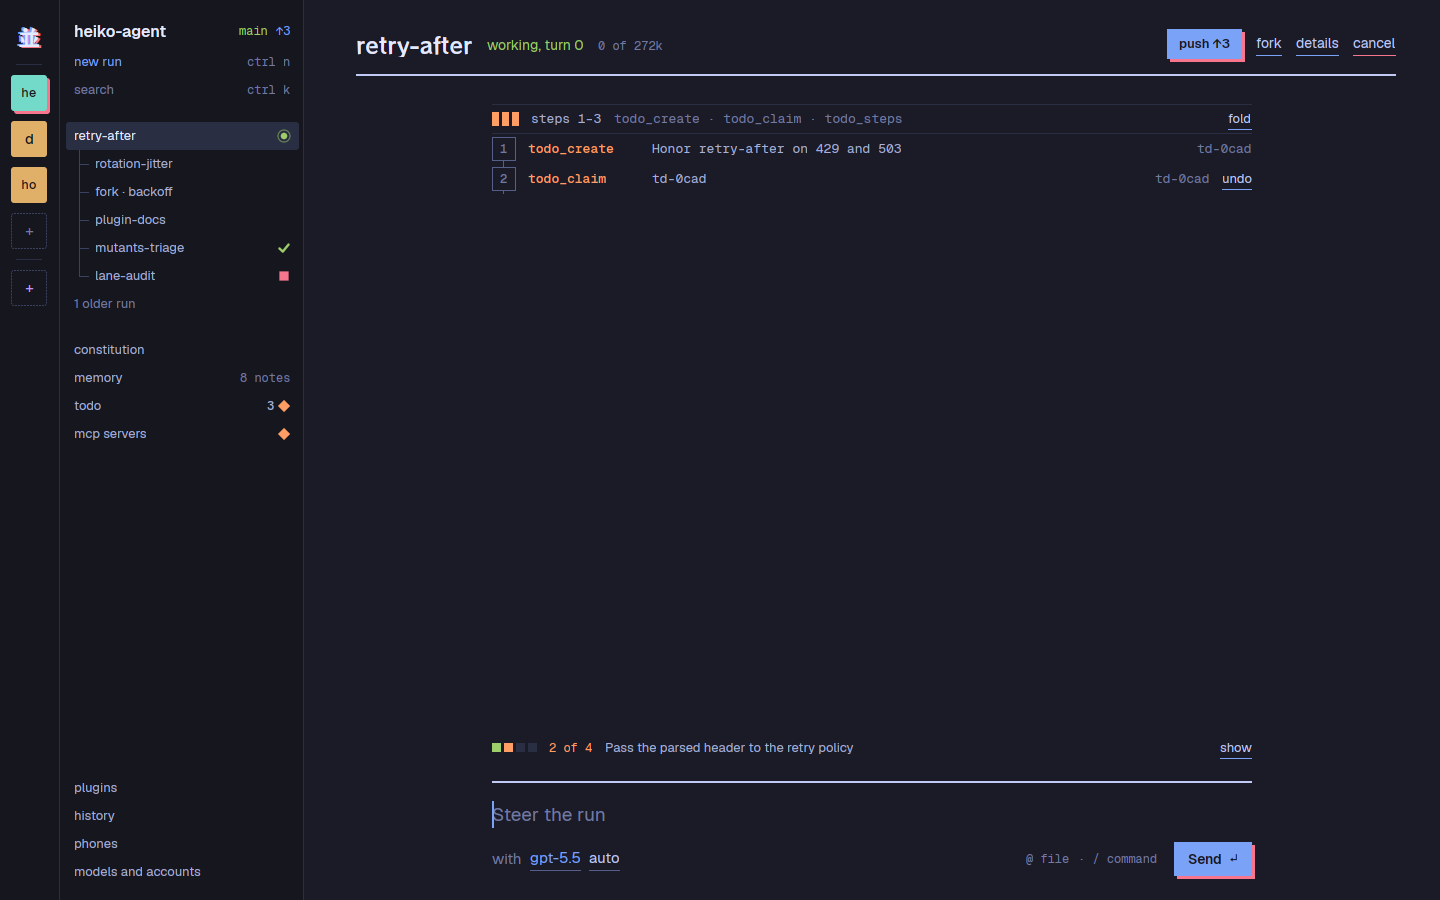
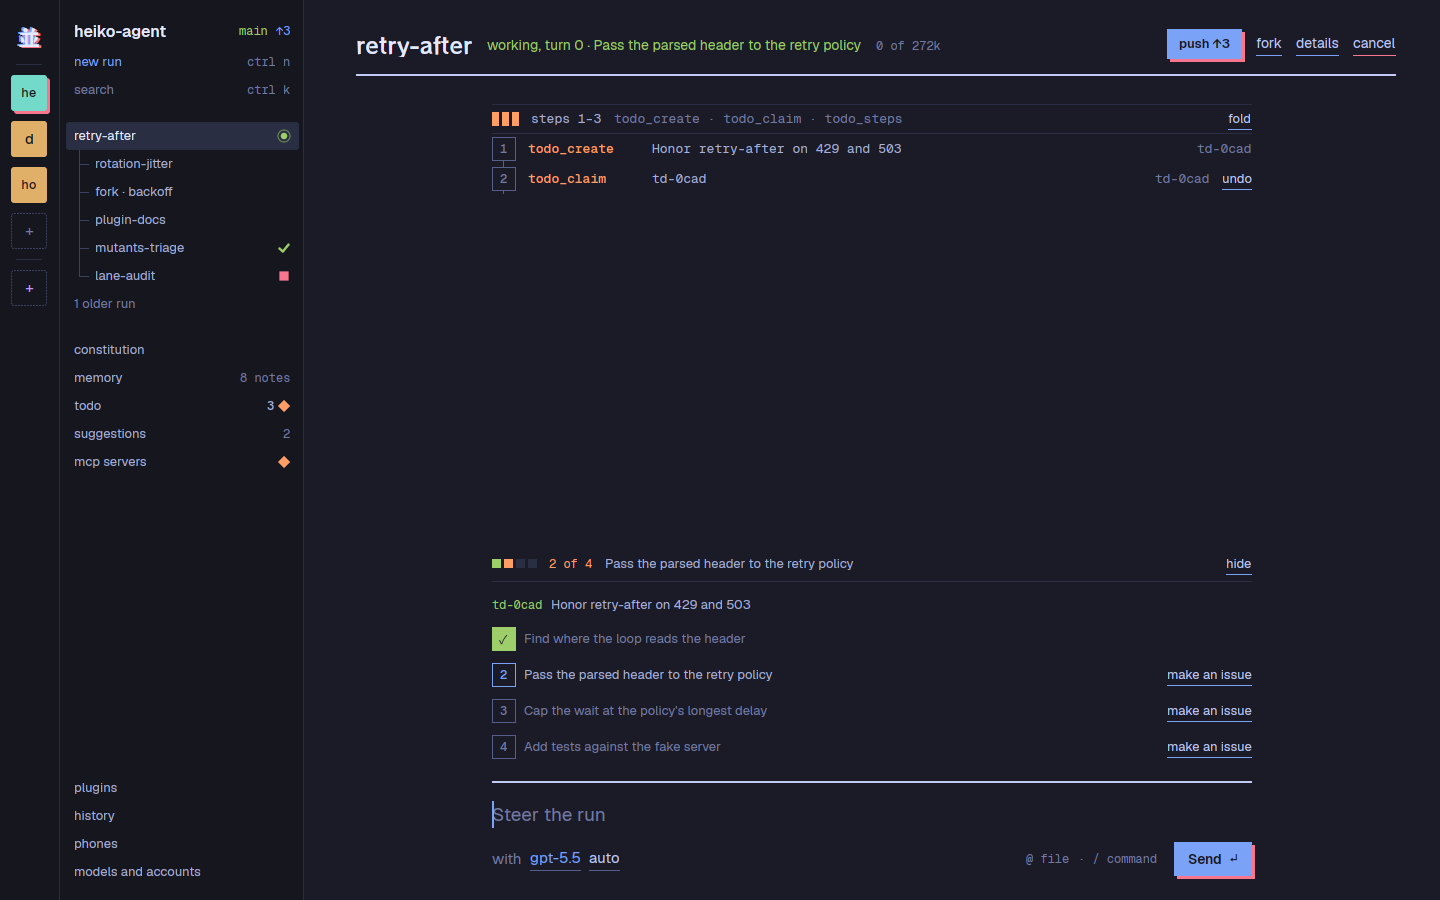
feat(heiko-todo): a run's steps show open over the composer, five at a time around the one in progress, and stay all done until the next message; the step in progress follows "working" in the run's header, through a new point, RUN_DOING, that a Luau view fills with `doing`

diff --git a/crates/plugins/heiko-luau-plugins/src/ui.rs b/crates/plugins/heiko-luau-plugins/src/ui.rs
@@ -1194,6 +1194,9 @@ impl UiPlugin for LuauPluginsUi {
             })
             // What each plugin's `view` draws at the run's places.
             .contribute(points::PANE, |_: &AtRun, view| pane(view.state?))
+            .contribute(points::RUN_DOING, |_: &AtRun, view| {
+                doing(view.state?)
+            })
             .contribute(points::RUN_BANNER, |_: &AtRun, view| {
                 drawn(view.state?, "banner")
             })
@@ -2307,6 +2310,19 @@ fn drawn(state: &State, key: &str) -> Option<Node> {
         1 => trees.pop(),
         _ => Some(Node::stack(trees)),
     }
+}
+
+/// What the run is doing now, from the first plugin by name whose view
+/// says: `doing`, a line of text.
+fn doing(state: &State) -> Option<String> {
+    state
+        .plugins
+        .values()
+        .filter(|plugin| plugin.off.is_none())
+        .find_map(|plugin| {
+            let text = plugin.view.get("doing")?.as_str()?.trim();
+            (!text.is_empty()).then(|| text.to_owned())
+        })
 }
 
 /// What the first plugin by name whose view has `key` drew there: for a
@@ -3810,6 +3826,31 @@ mod tests {
             state.notes["note-1"].1,
             json!({ "piece": "text", "text": "second" })
         );
+    }
+
+    /// What the run is doing comes from the first plugin by name whose
+    /// view says it as text; blank text, any other value, or a plugin
+    /// that is off says nothing.
+    #[test]
+    fn the_run_is_doing_what_the_first_view_says() {
+        fn put(state: &mut State, name: &str, view: Value, off: bool) {
+            state.plugins.insert(
+                name.into(),
+                PluginState {
+                    view,
+                    off: off.then(|| "failed".to_owned()),
+                    ..PluginState::default()
+                },
+            );
+        }
+        let mut state = State::default();
+        put(&mut state, "a", json!({ "doing": "  " }), false);
+        put(&mut state, "b", json!({ "doing": 3 }), false);
+        put(&mut state, "c", json!({ "doing": "skipped" }), true);
+        assert_eq!(doing(&state), None);
+        put(&mut state, "d", json!({ "doing": " Fix the parser " }), false);
+        put(&mut state, "e", json!({ "doing": "later" }), false);
+        assert_eq!(doing(&state).as_deref(), Some("Fix the parser"));
     }
 
     /// A Luau plugin's tree keeps its state under the plugin's name, and

diff --git a/crates/heiko-ui-plugin/src/points.rs b/crates/heiko-ui-plugin/src/points.rs
@@ -418,6 +418,10 @@ pub const KIND_ROW_LINE: Point<AtRepo> = Point::new("heiko.sidebar.kind.line");
 /// What waits on the person among the plugin's things: each new one is
 /// a notice while they are away, on the computer and on the phone.
 pub const WAITING: Point<AtApp, Waiting> = Point::new("heiko.app.waiting");
+/// What the run is doing now, after "working" in its header while it is
+/// live: the step in progress (heiko-todo's). The first contribution is
+/// shown.
+pub const RUN_DOING: Point<AtRun, String> = Point::new("heiko.run.doing");
 /// Above a run's transcript.
 pub const RUN_BANNER: Point<AtRun> = Point::new("heiko.run.banner");
 /// A section of the run inspector.
@@ -505,7 +509,7 @@ pub const SETUP: Point<AtSetup, SetupView> = Point::new("heiko.setup.step");
 pub const PANE: Point<AtRun, PaneView> = Point::new("heiko.run.pane");
 
 /// Every point `heiko-ui` declares.
-pub const ALL: [&str; 36] = [
+pub const ALL: [&str; 37] = [
     CARD.name,
     CARD_STAT.name,
     CHANGES.name,
@@ -518,6 +522,7 @@ pub const ALL: [&str; 36] = [
     CONTEXT.name,
     CARD_BADGE.name,
     CARD_BODY.name,
+    RUN_DOING.name,
     RUN_BANNER.name,
     INSPECTOR.name,
     STATUS.name,

diff --git a/crates/heiko-ui-remote/src/ui/chrome.rs b/crates/heiko-ui-remote/src/ui/chrome.rs
@@ -1297,10 +1297,14 @@ fn job_item(
 const PHONE_MARGIN: f32 = 4.5;
 
 /// The words a run's state reads as on a phone, in its color: at work
-/// with its turn, else its status.
-fn state_words(run: &RunView, t: &Theme) -> (Hsla, SharedString) {
+/// with its turn and what it is doing, else its status.
+fn state_words(
+    ws: &Workspace,
+    run: &RunView,
+    t: &Theme,
+) -> (Hsla, SharedString) {
     if run.ending.is_none() && run.status.is_live() {
-        (t.green, format!("working, turn {}", run.turn).into())
+        (t.green, ws.working_words(run).into())
     } else {
         super::run_look(run, t)
     }
@@ -1325,7 +1329,7 @@ pub fn phone_run_bar(
     t: &Theme,
     cx: &mut Context<Workspace>,
 ) -> Div {
-    let (color, label) = state_words(run, t);
+    let (color, label) = state_words(ws, run, t);
     let id = run.id.clone();
     // A word to tap, as tall as a finger needs.
     let word = |id: &'static str, label: &'static str| {

diff --git a/crates/heiko-ui-remote/src/workspace.rs b/crates/heiko-ui-remote/src/workspace.rs
@@ -2400,6 +2400,20 @@ impl Workspace {
         });
     }
 
+    /// What a live run says it is doing, after "working, turn N" in its
+    /// header: the step in progress a plugin gives (`points::RUN_DOING`).
+    pub(crate) fn working_words(&self, run: &RunView) -> String {
+        let at = heiko_ui_plugin::points::AtRun { run: run.info() };
+        let doing = self
+            .contributions(heiko_ui_plugin::points::RUN_DOING, &at)
+            .into_iter()
+            .next();
+        match doing {
+            Some(doing) => format!("working, turn {} · {doing}", run.turn),
+            None => format!("working, turn {}", run.turn),
+        }
+    }
+
     /// A plugin's suggestion for the next run in the selected repository,
     /// while the composer starts one (ADR 0063).
     pub(crate) fn composer_hint(

diff --git a/crates/heiko-ui/tests/views.rs b/crates/heiko-ui/tests/views.rs
@@ -138,6 +138,7 @@ fn what_the_computer_builds_is_what_it_draws(cx: &mut TestAppContext) {
             count(same!(points::RUN_ROW, at()));
             count(same!(points::ASKS, at()));
             count(same!(points::CONTEXT, at()));
+            count(same!(points::RUN_DOING, at()));
             count(same!(points::RUN_BANNER, at()));
             count(same!(points::INSPECTOR, at()));
             count(same!(points::PLAN_STEPS, at()));

diff --git a/crates/heiko-ui-remote/src/views.rs b/crates/heiko-ui-remote/src/views.rs
@@ -528,6 +528,9 @@ impl Workspace {
                 at!(points::USER_MESSAGE, self.at_message(at))
             }
             p if p == points::CONTEXT.name => at!(points::CONTEXT, at_run()),
+            p if p == points::RUN_DOING.name => {
+                at!(points::RUN_DOING, at_run())
+            }
             p if p == points::RUN_BANNER.name => {
                 at!(points::RUN_BANNER, at_run())
             }

diff --git a/crates/heiko-ui-remote/src/workspace/layout.rs b/crates/heiko-ui-remote/src/workspace/layout.rs
@@ -422,7 +422,7 @@ impl Workspace {
         }
         let live = run.status.is_live();
         let (color, state): (gpui::Hsla, gpui::SharedString) = if live {
-            (t.green, format!("working, turn {}", run.turn).into())
+            (t.green, self.working_words(run).into())
         } else {
             ui::status_look(&run.status, t)
         };

diff --git a/crates/plugins/heiko-luau-plugins-host/src/parity.rs b/crates/plugins/heiko-luau-plugins-host/src/parity.rs
@@ -79,6 +79,7 @@ pub fn point(name: &str) -> Option<Luau> {
         (TRANSCRIPT.name, "note"),
         (CARD.name, "step"),
         (CARD_BADGE.name, "badge"),
+        (RUN_DOING.name, "doing"),
         (RUN_BANNER.name, "banner"),
         (INSPECTOR.name, "inspector"),
         (COMPOSER_BAND.name, "band"),

diff --git a/crates/plugins/heiko-luau-plugins-host/skill/SKILL.md b/crates/plugins/heiko-luau-plugins-host/skill/SKILL.md
@@ -702,6 +702,9 @@ await. What it returns goes in these places:
   grew since the run was last drawn. Only one plugin's draws, the first
   by name.
 - `band`: pieces just above the composer.
+- `doing`: text, what the run is doing now, after "working, turn N" in
+  its header while it is live, as the step in progress. Only one
+  plugin's shows, the first by name.
 - `composer`: pieces in the composer's place, while the run goes on: a
   form the run waits on. Only one plugin's draws, the first by name;
   the composer comes back once none does.
